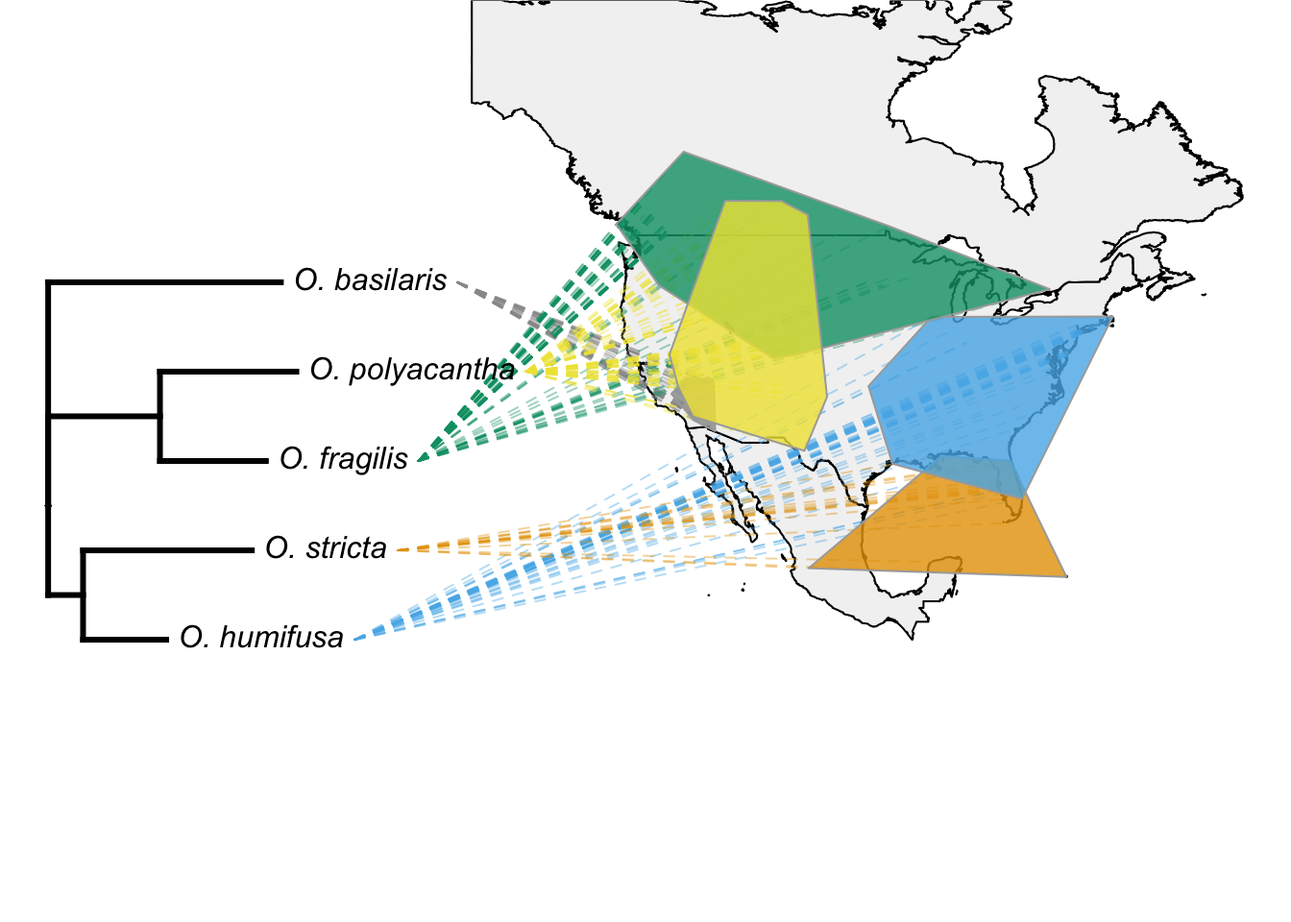
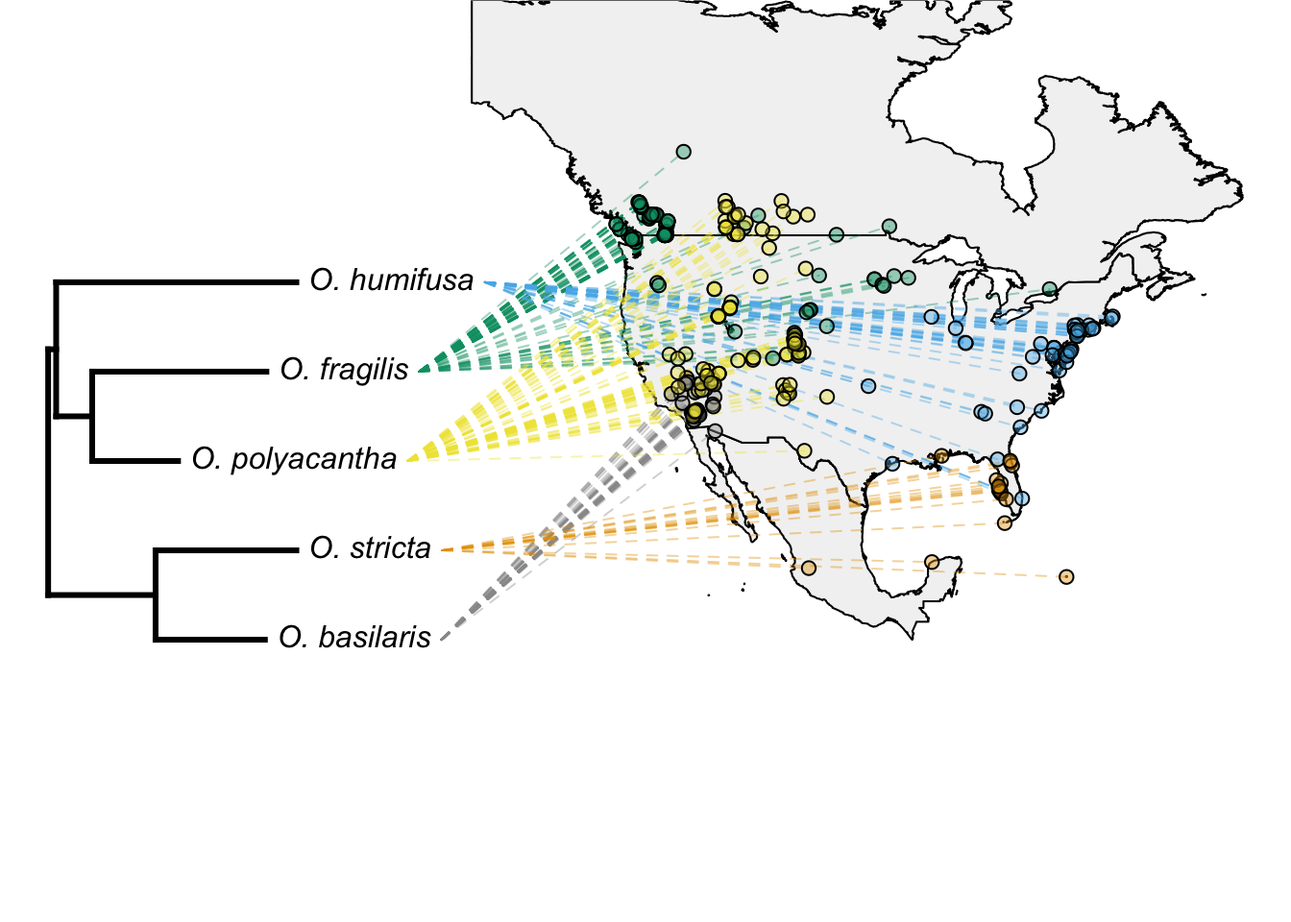
fixed some bugs in phylogeography R exercise

Changed region(s): [[0.0312, 0.1562, 0.875, 0.7188]]

diff --git a/docs/BIOL_324_Lab_10.html b/docs/BIOL_324_Lab_10.html
@@ -854,7 +854,7 @@ div.tocify {
 <div id="fruit-1" class="section level2">
 <h2>Fruit</h2>
 <p>Members of the Poaceae family form a caryopsis as their fruit type. A caryopsis is a dry, indehiscent fruit formed from a simple pistil that resembles an achene, except the seed coat is fused to the ovary wall. The caryopsis is often referred to as a grain, which as you likely know makes up a huge proportion of the food eaten by humans. Keep in mind that not all seeds/fruit referred to as “grains” (aka “cereal grains”) belong to the Poaceae family.</p>
-<p>Here, you can see a swollen caryopsis forming between the lemma and pelea of wheat (<em>Triticum</em> sp.).</p>
+<p>Here, you can see a swollen caryopsis forming between the lemma and palea of wheat (<em>Triticum</em> sp.).</p>
 <p align="center">
 <img src="media/Poaceae26.jpeg" style="width:49.0%" /> <img src="media/Poaceae27.jpeg" style="width:49.0%" />
 </p>
@@ -907,94 +907,115 @@ div.tocify {
 <span id="cb1-3"><a href="#cb1-3"></a><span class="kw">install.packages</span>(<span class="st">&#39;viridis&#39;</span>)</span></code></pre></div>
 <p>Attach the packages:</p>
 <div class="sourceCode" id="cb2"><pre class="sourceCode r"><code class="sourceCode r"><span id="cb2-1"><a href="#cb2-1"></a><span class="co"># attach packages once they are installed </span></span>
-<span id="cb2-2"><a href="#cb2-2"></a><span class="kw">library</span>(here)</span>
-<span id="cb2-3"><a href="#cb2-3"></a><span class="kw">library</span>(mapdata)</span>
-<span id="cb2-4"><a href="#cb2-4"></a><span class="kw">library</span>(phytools)</span>
-<span id="cb2-5"><a href="#cb2-5"></a><span class="kw">library</span>(tidyverse)</span>
-<span id="cb2-6"><a href="#cb2-6"></a><span class="kw">library</span>(viridis)</span></code></pre></div>
+<span id="cb2-2"><a href="#cb2-2"></a><span class="kw">library</span>(mapdata)</span>
+<span id="cb2-3"><a href="#cb2-3"></a><span class="kw">library</span>(phytools)</span>
+<span id="cb2-4"><a href="#cb2-4"></a><span class="kw">library</span>(tidyverse)</span>
+<span id="cb2-5"><a href="#cb2-5"></a><span class="kw">library</span>(viridis)</span></code></pre></div>
 <p>Let’s import our species distribution data (from GBIF, Lab 7) and phylogenetic tree (Assignment 4). If you haven’t already, we recommend re-creating your GBIF dataset using the option <code>geometry =</code> within <code>occ()</code> (see revised Lab 7). Don’t forget to save your GBIF data as an .rds file using <code>saveRDS()</code>!</p>
-<p>When you’re ready to import your own <em>rbcL</em> and GBIF data for your iNaturalist species, we recommend using <code>file.choose()</code> inside of <code>readRDS()</code> (see Lab 8).</p>
+<p>When you’re ready to import your own <em>rbcL</em> and GBIF data for your iNaturalist species, we recommend using <code>readRDS(file = file.choose())</code> (see Lab 8).</p>
 <div class="sourceCode" id="cb3"><pre class="sourceCode r"><code class="sourceCode r"><span id="cb3-1"><a href="#cb3-1"></a><span class="co"># import Opuntia rbcL tree from last tutorial</span></span>
 <span id="cb3-2"><a href="#cb3-2"></a>rbcL_tree &lt;-<span class="st"> </span><span class="kw">readRDS</span>(<span class="dt">file =</span> <span class="st">&#39;rbcL_tree.rds&#39;</span>)</span>
 <span id="cb3-3"><a href="#cb3-3"></a></span>
-<span id="cb3-4"><a href="#cb3-4"></a><span class="co"># import filtered GBIF data from last tutorial</span></span>
-<span id="cb3-5"><a href="#cb3-5"></a>opuntia_fil &lt;-<span class="st"> </span><span class="kw">readRDS</span>(<span class="dt">file =</span> <span class="st">&#39;filtered_gbif_dataset.rds&#39;</span>) </span></code></pre></div>
+<span id="cb3-4"><a href="#cb3-4"></a><span class="co"># adds a root to our tree, make sure you do this or your trees won&#39;t display properly!</span></span>
+<span id="cb3-5"><a href="#cb3-5"></a>rbcL_tree &lt;-<span class="st"> </span><span class="kw">midpoint.root</span>(rbcL_tree)</span>
+<span id="cb3-6"><a href="#cb3-6"></a></span>
+<span id="cb3-7"><a href="#cb3-7"></a><span class="co"># import filtered GBIF data from last tutorial</span></span>
+<span id="cb3-8"><a href="#cb3-8"></a>opuntia_fil &lt;-<span class="st"> </span><span class="kw">readRDS</span>(<span class="dt">file =</span> <span class="st">&#39;filtered_gbif_dataset.rds&#39;</span>) </span></code></pre></div>
+<p>Do some quick data checks to make sure your data loaded correctly:</p>
+<div class="sourceCode" id="cb4"><pre class="sourceCode r"><code class="sourceCode r"><span id="cb4-1"><a href="#cb4-1"></a><span class="co"># check that your map data looks ok...</span></span>
+<span id="cb4-2"><a href="#cb4-2"></a><span class="kw">head</span>(opuntia_fil)</span></code></pre></div>
+<pre><code>## # A tibble: 6 x 5
+##   name                longitude latitude basisOfRecord   scientificName         
+##   &lt;chr&gt;                   &lt;dbl&gt;    &lt;dbl&gt; &lt;chr&gt;           &lt;chr&gt;                  
+## 1 Opuntia basilaris …     -117.     36.9 HUMAN_OBSERVAT… Opuntia basilaris Enge…
+## 2 Opuntia basilaris …     -116.     33.7 HUMAN_OBSERVAT… Opuntia basilaris Enge…
+## 3 Opuntia basilaris …     -115.     36.4 HUMAN_OBSERVAT… Opuntia basilaris Enge…
+## 4 Opuntia basilaris …     -115.     36.4 HUMAN_OBSERVAT… Opuntia basilaris Enge…
+## 5 Opuntia basilaris …     -116.     33.9 HUMAN_OBSERVAT… Opuntia basilaris Enge…
+## 6 Opuntia basilaris …     -114.     36.6 HUMAN_OBSERVAT… Opuntia basilaris Enge…</code></pre>
+<div class="sourceCode" id="cb6"><pre class="sourceCode r"><code class="sourceCode r"><span id="cb6-1"><a href="#cb6-1"></a><span class="co"># double-check how they are named in GBIF dataset...</span></span>
+<span id="cb6-2"><a href="#cb6-2"></a><span class="kw">unique</span>(opuntia_fil<span class="op">$</span>name)</span></code></pre></div>
+<pre><code>## [1] &quot;Opuntia basilaris Engelm. &amp; J.M.Bigelow&quot;
+## [2] &quot;Opuntia fragilis (Nutt.) Haw.&quot;          
+## [3] &quot;Opuntia humifusa Raf.&quot;                  
+## [4] &quot;Opuntia polyacantha Haw.&quot;               
+## [5] &quot;Opuntia stricta (Haw.) Haw.&quot;</code></pre>
 <p>Then, we’ll simplify the species names in the GBIF dataset (this is required to use <code>phytools</code>). We can change the names of variables using the <code>mutate()</code> function:</p>
-<div class="sourceCode" id="cb4"><pre class="sourceCode r"><code class="sourceCode r"><span id="cb4-1"><a href="#cb4-1"></a>opuntia_fil &lt;-</span>
-<span id="cb4-2"><a href="#cb4-2"></a><span class="st"> </span>opuntia_fil <span class="op">%&gt;%</span><span class="st"> </span></span>
-<span id="cb4-3"><a href="#cb4-3"></a><span class="st"> </span><span class="kw">mutate</span>(<span class="dt">short_names =</span> <span class="kw">case_when</span>(</span>
-<span id="cb4-4"><a href="#cb4-4"></a>   name <span class="op">==</span><span class="st"> &quot;Opuntia basilaris Engelm. &amp; J.M.Bigelow&quot;</span> <span class="op">~</span><span class="st"> &quot;O._basilaris&quot;</span>,</span>
-<span id="cb4-5"><a href="#cb4-5"></a>   name <span class="op">==</span><span class="st"> &quot;Opuntia fragilis (Nutt.) Haw.&quot;</span> <span class="op">~</span><span class="st"> &quot;O._fragilis&quot;</span>,</span>
-<span id="cb4-6"><a href="#cb4-6"></a>   name <span class="op">==</span><span class="st"> &quot;Opuntia humifusa Raf.&quot;</span> <span class="op">~</span><span class="st"> &quot;O._humifusa&quot;</span>,</span>
-<span id="cb4-7"><a href="#cb4-7"></a>   name <span class="op">==</span><span class="st"> &quot;Opuntia stricta (Haw.) Haw.&quot;</span> <span class="op">~</span><span class="st"> &quot;O._stricta&quot;</span>,</span>
-<span id="cb4-8"><a href="#cb4-8"></a>   name <span class="op">==</span><span class="st"> &quot;Opuntia polyacantha Haw.&quot;</span> <span class="op">~</span><span class="st"> &quot;O._polyacantha&quot;</span></span>
-<span id="cb4-9"><a href="#cb4-9"></a> ))</span></code></pre></div>
+<div class="sourceCode" id="cb8"><pre class="sourceCode r"><code class="sourceCode r"><span id="cb8-1"><a href="#cb8-1"></a>opuntia_fil &lt;-</span>
+<span id="cb8-2"><a href="#cb8-2"></a><span class="st"> </span>opuntia_fil <span class="op">%&gt;%</span><span class="st"> </span></span>
+<span id="cb8-3"><a href="#cb8-3"></a><span class="st"> </span><span class="kw">mutate</span>(<span class="dt">short_names =</span> <span class="kw">case_when</span>(</span>
+<span id="cb8-4"><a href="#cb8-4"></a>   name <span class="op">==</span><span class="st"> &quot;Opuntia basilaris Engelm. &amp; J.M.Bigelow&quot;</span> <span class="op">~</span><span class="st"> &quot;O._basilaris&quot;</span>,</span>
+<span id="cb8-5"><a href="#cb8-5"></a>   name <span class="op">==</span><span class="st"> &quot;Opuntia fragilis (Nutt.) Haw.&quot;</span> <span class="op">~</span><span class="st"> &quot;O._fragilis&quot;</span>,</span>
+<span id="cb8-6"><a href="#cb8-6"></a>   name <span class="op">==</span><span class="st"> &quot;Opuntia humifusa Raf.&quot;</span> <span class="op">~</span><span class="st"> &quot;O._humifusa&quot;</span>,</span>
+<span id="cb8-7"><a href="#cb8-7"></a>   name <span class="op">==</span><span class="st"> &quot;Opuntia stricta (Haw.) Haw.&quot;</span> <span class="op">~</span><span class="st"> &quot;O._stricta&quot;</span>,</span>
+<span id="cb8-8"><a href="#cb8-8"></a>   name <span class="op">==</span><span class="st"> &quot;Opuntia polyacantha Haw.&quot;</span> <span class="op">~</span><span class="st"> &quot;O._polyacantha&quot;</span></span>
+<span id="cb8-9"><a href="#cb8-9"></a> ))</span></code></pre></div>
 <p>Some more data organizing is needed.. we’ll reverse the order of the latitude and longitude columns in our GBIF dataset, and convert the <code>tibble</code> into a <code>matrix</code> (for <code>phytools</code>):</p>
-<div class="sourceCode" id="cb5"><pre class="sourceCode r"><code class="sourceCode r"><span id="cb5-1"><a href="#cb5-1"></a>latlong &lt;-<span class="st"> </span></span>
-<span id="cb5-2"><a href="#cb5-2"></a><span class="st">  </span>opuntia_fil <span class="op">%&gt;%</span><span class="st"> </span></span>
-<span id="cb5-3"><a href="#cb5-3"></a><span class="st">  </span><span class="kw">select</span>(<span class="kw">c</span>(<span class="dv">3</span>,<span class="dv">2</span>)) <span class="op">%&gt;%</span><span class="st"> </span><span class="co"># reverse long-lat to lat-long</span></span>
-<span id="cb5-4"><a href="#cb5-4"></a><span class="st">  </span><span class="kw">as.matrix</span>()</span></code></pre></div>
+<div class="sourceCode" id="cb9"><pre class="sourceCode r"><code class="sourceCode r"><span id="cb9-1"><a href="#cb9-1"></a>latlong &lt;-<span class="st"> </span></span>
+<span id="cb9-2"><a href="#cb9-2"></a><span class="st">  </span>opuntia_fil <span class="op">%&gt;%</span><span class="st"> </span></span>
+<span id="cb9-3"><a href="#cb9-3"></a><span class="st">  </span><span class="kw">select</span>(<span class="kw">c</span>(<span class="dv">3</span>,<span class="dv">2</span>)) <span class="op">%&gt;%</span><span class="st"> </span><span class="co"># reverse long-lat to lat-long</span></span>
+<span id="cb9-4"><a href="#cb9-4"></a><span class="st">  </span><span class="kw">as.matrix</span>()</span></code></pre></div>
 <p>We’ll need to give each row (i.e. GBIF observation) a species name in order to overlay a phylogeny. Entries with missing information (<code>NA</code>s) also need to be removed:</p>
-<div class="sourceCode" id="cb6"><pre class="sourceCode r"><code class="sourceCode r"><span id="cb6-1"><a href="#cb6-1"></a><span class="co"># assign species names to rows</span></span>
-<span id="cb6-2"><a href="#cb6-2"></a><span class="kw">rownames</span>(latlong) &lt;-<span class="st"> </span>opuntia_fil<span class="op">$</span>short_names</span>
-<span id="cb6-3"><a href="#cb6-3"></a></span>
-<span id="cb6-4"><a href="#cb6-4"></a><span class="co"># removes rows with NAs</span></span>
-<span id="cb6-5"><a href="#cb6-5"></a>latlong &lt;-<span class="st"> </span><span class="kw">na.omit</span>(latlong)</span></code></pre></div>
+<div class="sourceCode" id="cb10"><pre class="sourceCode r"><code class="sourceCode r"><span id="cb10-1"><a href="#cb10-1"></a><span class="co"># assign species names to rows</span></span>
+<span id="cb10-2"><a href="#cb10-2"></a><span class="kw">rownames</span>(latlong) &lt;-<span class="st"> </span>opuntia_fil<span class="op">$</span>short_names</span>
+<span id="cb10-3"><a href="#cb10-3"></a></span>
+<span id="cb10-4"><a href="#cb10-4"></a><span class="co"># removes rows with NAs</span></span>
+<span id="cb10-5"><a href="#cb10-5"></a>latlong &lt;-<span class="st"> </span><span class="kw">na.omit</span>(latlong)</span></code></pre></div>
 <p>The species names need to match the exact spelling and format as in the phylogeny:</p>
-<div class="sourceCode" id="cb7"><pre class="sourceCode r"><code class="sourceCode r"><span id="cb7-1"><a href="#cb7-1"></a>rbcL_tree<span class="op">$</span>tip.label &lt;-<span class="st"> </span></span>
-<span id="cb7-2"><a href="#cb7-2"></a><span class="st">  </span><span class="kw">c</span>(<span class="st">&quot;O._basilaris&quot;</span>, <span class="st">&quot;O._stricta&quot;</span>, <span class="st">&quot;O._humifusa&quot;</span>, <span class="st">&quot;O._fragilis&quot;</span>, <span class="st">&quot;O._polyacantha&quot;</span>)</span></code></pre></div>
+<div class="sourceCode" id="cb11"><pre class="sourceCode r"><code class="sourceCode r"><span id="cb11-1"><a href="#cb11-1"></a>rbcL_tree<span class="op">$</span>tip.label &lt;-<span class="st"> </span></span>
+<span id="cb11-2"><a href="#cb11-2"></a><span class="st">  </span><span class="kw">c</span>(<span class="st">&quot;O._basilaris&quot;</span>, <span class="st">&quot;O._stricta&quot;</span>, <span class="st">&quot;O._humifusa&quot;</span>, <span class="st">&quot;O._fragilis&quot;</span>, <span class="st">&quot;O._polyacantha&quot;</span>)</span></code></pre></div>
 <p>And each species needs a unique colour:</p>
-<div class="sourceCode" id="cb8"><pre class="sourceCode r"><code class="sourceCode r"><span id="cb8-1"><a href="#cb8-1"></a>colours &lt;-<span class="st"> </span></span>
-<span id="cb8-2"><a href="#cb8-2"></a><span class="st">  </span><span class="kw">setNames</span>(<span class="kw">c</span>(<span class="st">&#39;#999999&#39;</span>, <span class="st">&#39;#E69F00&#39;</span>, <span class="st">&#39;#56B4E9&#39;</span>, <span class="st">&#39;#009E73&#39;</span>, <span class="st">&#39;#F0E442&#39;</span>),</span>
-<span id="cb8-3"><a href="#cb8-3"></a>           rbcL_tree<span class="op">$</span>tip.label)</span></code></pre></div>
-<div class="sourceCode" id="cb9"><pre class="sourceCode r"><code class="sourceCode r"><span id="cb9-1"><a href="#cb9-1"></a>obj &lt;-<span class="st"> </span></span>
-<span id="cb9-2"><a href="#cb9-2"></a><span class="st">  </span><span class="kw">phylo.to.map</span>(</span>
-<span id="cb9-3"><a href="#cb9-3"></a>    rbcL_tree, </span>
-<span id="cb9-4"><a href="#cb9-4"></a>    latlong, </span>
-<span id="cb9-5"><a href="#cb9-5"></a>    <span class="dt">rotate =</span> <span class="ot">FALSE</span>,</span>
-<span id="cb9-6"><a href="#cb9-6"></a>    <span class="dt">regions =</span> <span class="kw">c</span>(<span class="st">&quot;Canada&quot;</span>, <span class="st">&quot;USA&quot;</span>, <span class="st">&quot;Mexico&quot;</span>),</span>
-<span id="cb9-7"><a href="#cb9-7"></a>    <span class="dt">database =</span> <span class="st">&quot;worldHires&quot;</span>,</span>
-<span id="cb9-8"><a href="#cb9-8"></a>    <span class="dt">xlim =</span> <span class="kw">c</span>(<span class="op">-</span><span class="dv">135</span>, <span class="dv">-55</span> ),  </span>
-<span id="cb9-9"><a href="#cb9-9"></a>    <span class="dt">ylim =</span> <span class="kw">c</span>(<span class="dv">10</span>, <span class="dv">45</span>),</span>
-<span id="cb9-10"><a href="#cb9-10"></a>    <span class="dt">asp =</span> <span class="dv">4</span>,</span>
-<span id="cb9-11"><a href="#cb9-11"></a>    <span class="dt">lwd =</span> <span class="dv">1</span>,</span>
-<span id="cb9-12"><a href="#cb9-12"></a>    <span class="dt">plot =</span> <span class="ot">FALSE</span>)</span>
-<span id="cb9-13"><a href="#cb9-13"></a></span>
-<span id="cb9-14"><a href="#cb9-14"></a><span class="kw">plot</span>(</span>
-<span id="cb9-15"><a href="#cb9-15"></a>  obj, </span>
-<span id="cb9-16"><a href="#cb9-16"></a>  <span class="dt">direction =</span> <span class="st">&quot;rightwards&quot;</span>, </span>
-<span id="cb9-17"><a href="#cb9-17"></a>  <span class="dt">colors =</span> <span class="kw">sapply</span>(colours, make.transparent, <span class="fl">0.4</span>),</span>
-<span id="cb9-18"><a href="#cb9-18"></a>  <span class="dt">pts =</span> <span class="ot">TRUE</span>,</span>
-<span id="cb9-19"><a href="#cb9-19"></a>  <span class="dt">cex.points =</span> <span class="kw">c</span>(<span class="dv">0</span>,<span class="dv">1</span>),</span>
-<span id="cb9-20"><a href="#cb9-20"></a>  <span class="dt">lwd =</span> <span class="kw">c</span>(<span class="dv">3</span>,<span class="dv">1</span>),</span>
-<span id="cb9-21"><a href="#cb9-21"></a>  <span class="dt">asp =</span> <span class="fl">1.3</span>,</span>
-<span id="cb9-22"><a href="#cb9-22"></a>  <span class="dt">ftype =</span><span class="st">&quot;i&quot;</span>)</span></code></pre></div>
-<p><img src="BIOL_324_Lab_10_files/figure-html/unnamed-chunk-9-1.png" width="672" /></p>
-<p>Optional: If you’d like to replace occurrence points with a polygon that summarizes a species’ distribution, you can try:</p>
-<div class="sourceCode" id="cb10"><pre class="sourceCode r"><code class="sourceCode r"><span id="cb10-1"><a href="#cb10-1"></a><span class="co"># To plot polygons, re-run plot() with pts = FALSE and cex.point = c(0,0) along with </span></span>
-<span id="cb10-2"><a href="#cb10-2"></a>{<span class="kw">plot</span>(</span>
-<span id="cb10-3"><a href="#cb10-3"></a>  obj, </span>
-<span id="cb10-4"><a href="#cb10-4"></a>  <span class="dt">direction =</span> <span class="st">&quot;rightwards&quot;</span>, </span>
-<span id="cb10-5"><a href="#cb10-5"></a>  <span class="dt">colors =</span> <span class="kw">sapply</span>(colours, make.transparent, <span class="fl">0.4</span>),</span>
-<span id="cb10-6"><a href="#cb10-6"></a>  <span class="dt">pts =</span> <span class="ot">FALSE</span>,</span>
-<span id="cb10-7"><a href="#cb10-7"></a>  <span class="dt">cex.points =</span> <span class="kw">c</span>(<span class="dv">0</span>,<span class="dv">0</span>),</span>
-<span id="cb10-8"><a href="#cb10-8"></a>  <span class="dt">lwd =</span> <span class="kw">c</span>(<span class="dv">3</span>,<span class="dv">1</span>),</span>
-<span id="cb10-9"><a href="#cb10-9"></a>  <span class="dt">asp =</span> <span class="fl">1.3</span>,</span>
-<span id="cb10-10"><a href="#cb10-10"></a>  <span class="dt">ftype =</span><span class="st">&quot;i&quot;</span>)</span>
-<span id="cb10-11"><a href="#cb10-11"></a></span>
-<span id="cb10-12"><a href="#cb10-12"></a><span class="co"># compute polygon boundaries from lat-long data</span></span>
-<span id="cb10-13"><a href="#cb10-13"></a><span class="cf">for</span>(i <span class="cf">in</span> <span class="dv">1</span><span class="op">:</span><span class="kw">Ntip</span>(rbcL_tree)){</span>
-<span id="cb10-14"><a href="#cb10-14"></a>  spr&lt;-latlong[<span class="kw">which</span>(<span class="kw">rownames</span>(latlong)<span class="op">==</span>rbcL_tree<span class="op">$</span>tip.label[i]),]</span>
-<span id="cb10-15"><a href="#cb10-15"></a>  mcp&lt;-<span class="cf">if</span>(i<span class="op">==</span><span class="dv">1</span>) spr[<span class="kw">chull</span>(spr),] <span class="cf">else</span> <span class="kw">rbind</span>(mcp,spr[<span class="kw">chull</span>(spr),])</span>
-<span id="cb10-16"><a href="#cb10-16"></a>}</span>
-<span id="cb10-17"><a href="#cb10-17"></a></span>
-<span id="cb10-18"><a href="#cb10-18"></a><span class="co"># plot polygons </span></span>
-<span id="cb10-19"><a href="#cb10-19"></a><span class="cf">for</span>(i <span class="cf">in</span> <span class="dv">1</span><span class="op">:</span><span class="kw">Ntip</span>(rbcL_tree)){</span>
-<span id="cb10-20"><a href="#cb10-20"></a>  ii&lt;-<span class="kw">which</span>(<span class="kw">rownames</span>(mcp)<span class="op">==</span>rbcL_tree<span class="op">$</span>tip.label[i])</span>
-<span id="cb10-21"><a href="#cb10-21"></a>  <span class="kw">polygon</span>(mcp[ii,<span class="dv">2</span><span class="op">:</span><span class="dv">1</span>],<span class="dt">col=</span><span class="kw">make.transparent</span>(colours[rbcL_tree<span class="op">$</span>tip.label[i]],<span class="fl">0.8</span>),</span>
-<span id="cb10-22"><a href="#cb10-22"></a>          <span class="dt">border=</span><span class="st">&quot;darkgrey&quot;</span>)</span>
-<span id="cb10-23"><a href="#cb10-23"></a>}}</span></code></pre></div>
+<div class="sourceCode" id="cb12"><pre class="sourceCode r"><code class="sourceCode r"><span id="cb12-1"><a href="#cb12-1"></a>colours &lt;-<span class="st"> </span></span>
+<span id="cb12-2"><a href="#cb12-2"></a><span class="st">  </span><span class="kw">setNames</span>(<span class="kw">c</span>(<span class="st">&#39;#999999&#39;</span>, <span class="st">&#39;#E69F00&#39;</span>, <span class="st">&#39;#56B4E9&#39;</span>, <span class="st">&#39;#009E73&#39;</span>, <span class="st">&#39;#F0E442&#39;</span>),</span>
+<span id="cb12-3"><a href="#cb12-3"></a>           rbcL_tree<span class="op">$</span>tip.label)</span></code></pre></div>
+<div class="sourceCode" id="cb13"><pre class="sourceCode r"><code class="sourceCode r"><span id="cb13-1"><a href="#cb13-1"></a>obj &lt;-<span class="st"> </span></span>
+<span id="cb13-2"><a href="#cb13-2"></a><span class="st">  </span><span class="kw">phylo.to.map</span>(</span>
+<span id="cb13-3"><a href="#cb13-3"></a>    rbcL_tree, </span>
+<span id="cb13-4"><a href="#cb13-4"></a>    latlong, </span>
+<span id="cb13-5"><a href="#cb13-5"></a>    <span class="dt">rotate =</span> <span class="ot">FALSE</span>,</span>
+<span id="cb13-6"><a href="#cb13-6"></a>    <span class="dt">regions =</span> <span class="kw">c</span>(<span class="st">&quot;Canada&quot;</span>, <span class="st">&quot;USA&quot;</span>, <span class="st">&quot;Mexico&quot;</span>),</span>
+<span id="cb13-7"><a href="#cb13-7"></a>    <span class="dt">database =</span> <span class="st">&quot;worldHires&quot;</span>,</span>
+<span id="cb13-8"><a href="#cb13-8"></a>    <span class="dt">xlim =</span> <span class="kw">c</span>(<span class="op">-</span><span class="dv">135</span>, <span class="dv">-55</span> ),  </span>
+<span id="cb13-9"><a href="#cb13-9"></a>    <span class="dt">ylim =</span> <span class="kw">c</span>(<span class="dv">10</span>, <span class="dv">45</span>),</span>
+<span id="cb13-10"><a href="#cb13-10"></a>    <span class="dt">asp =</span> <span class="dv">4</span>,</span>
+<span id="cb13-11"><a href="#cb13-11"></a>    <span class="dt">lwd =</span> <span class="dv">1</span>,</span>
+<span id="cb13-12"><a href="#cb13-12"></a>    <span class="dt">plot =</span> <span class="ot">FALSE</span>)</span>
+<span id="cb13-13"><a href="#cb13-13"></a></span>
+<span id="cb13-14"><a href="#cb13-14"></a><span class="kw">plot</span>(</span>
+<span id="cb13-15"><a href="#cb13-15"></a>  obj, </span>
+<span id="cb13-16"><a href="#cb13-16"></a>  <span class="dt">direction =</span> <span class="st">&quot;rightwards&quot;</span>, </span>
+<span id="cb13-17"><a href="#cb13-17"></a>  <span class="dt">colors =</span> <span class="kw">sapply</span>(colours, make.transparent, <span class="fl">0.4</span>),</span>
+<span id="cb13-18"><a href="#cb13-18"></a>  <span class="dt">pts =</span> <span class="ot">TRUE</span>,</span>
+<span id="cb13-19"><a href="#cb13-19"></a>  <span class="dt">cex.points =</span> <span class="kw">c</span>(<span class="dv">0</span>,<span class="dv">1</span>),</span>
+<span id="cb13-20"><a href="#cb13-20"></a>  <span class="dt">lwd =</span> <span class="kw">c</span>(<span class="dv">3</span>,<span class="dv">1</span>),</span>
+<span id="cb13-21"><a href="#cb13-21"></a>  <span class="dt">asp =</span> <span class="fl">1.3</span>,</span>
+<span id="cb13-22"><a href="#cb13-22"></a>  <span class="dt">ftype =</span><span class="st">&quot;i&quot;</span>)</span></code></pre></div>
 <p><img src="BIOL_324_Lab_10_files/figure-html/unnamed-chunk-10-1.png" width="672" /></p>
+<p>Optional: If you’d like to replace occurrence points with a polygon that summarizes a species’ distribution, you can try:</p>
+<div class="sourceCode" id="cb14"><pre class="sourceCode r"><code class="sourceCode r"><span id="cb14-1"><a href="#cb14-1"></a><span class="co"># To plot polygons, re-run plot() with pts = FALSE and cex.point = c(0,0) along with </span></span>
+<span id="cb14-2"><a href="#cb14-2"></a>{<span class="kw">plot</span>(</span>
+<span id="cb14-3"><a href="#cb14-3"></a>  obj, </span>
+<span id="cb14-4"><a href="#cb14-4"></a>  <span class="dt">direction =</span> <span class="st">&quot;rightwards&quot;</span>, </span>
+<span id="cb14-5"><a href="#cb14-5"></a>  <span class="dt">colors =</span> <span class="kw">sapply</span>(colours, make.transparent, <span class="fl">0.4</span>),</span>
+<span id="cb14-6"><a href="#cb14-6"></a>  <span class="dt">pts =</span> <span class="ot">FALSE</span>,</span>
+<span id="cb14-7"><a href="#cb14-7"></a>  <span class="dt">cex.points =</span> <span class="kw">c</span>(<span class="dv">0</span>,<span class="dv">0</span>),</span>
+<span id="cb14-8"><a href="#cb14-8"></a>  <span class="dt">lwd =</span> <span class="kw">c</span>(<span class="dv">3</span>,<span class="dv">1</span>),</span>
+<span id="cb14-9"><a href="#cb14-9"></a>  <span class="dt">asp =</span> <span class="fl">1.3</span>,</span>
+<span id="cb14-10"><a href="#cb14-10"></a>  <span class="dt">ftype =</span><span class="st">&quot;i&quot;</span>)</span>
+<span id="cb14-11"><a href="#cb14-11"></a></span>
+<span id="cb14-12"><a href="#cb14-12"></a><span class="co"># compute polygon boundaries from lat-long data</span></span>
+<span id="cb14-13"><a href="#cb14-13"></a><span class="cf">for</span>(i <span class="cf">in</span> <span class="dv">1</span><span class="op">:</span><span class="kw">Ntip</span>(rbcL_tree)){</span>
+<span id="cb14-14"><a href="#cb14-14"></a>  spr&lt;-latlong[<span class="kw">which</span>(<span class="kw">rownames</span>(latlong)<span class="op">==</span>rbcL_tree<span class="op">$</span>tip.label[i]),]</span>
+<span id="cb14-15"><a href="#cb14-15"></a>  mcp&lt;-<span class="cf">if</span>(i<span class="op">==</span><span class="dv">1</span>) spr[<span class="kw">chull</span>(spr),] <span class="cf">else</span> <span class="kw">rbind</span>(mcp,spr[<span class="kw">chull</span>(spr),])</span>
+<span id="cb14-16"><a href="#cb14-16"></a>}</span>
+<span id="cb14-17"><a href="#cb14-17"></a></span>
+<span id="cb14-18"><a href="#cb14-18"></a><span class="co"># plot polygons </span></span>
+<span id="cb14-19"><a href="#cb14-19"></a><span class="cf">for</span>(i <span class="cf">in</span> <span class="dv">1</span><span class="op">:</span><span class="kw">Ntip</span>(rbcL_tree)){</span>
+<span id="cb14-20"><a href="#cb14-20"></a>  ii&lt;-<span class="kw">which</span>(<span class="kw">rownames</span>(mcp)<span class="op">==</span>rbcL_tree<span class="op">$</span>tip.label[i])</span>
+<span id="cb14-21"><a href="#cb14-21"></a>  <span class="kw">polygon</span>(mcp[ii,<span class="dv">2</span><span class="op">:</span><span class="dv">1</span>],<span class="dt">col=</span><span class="kw">make.transparent</span>(colours[rbcL_tree<span class="op">$</span>tip.label[i]],<span class="fl">0.8</span>),</span>
+<span id="cb14-22"><a href="#cb14-22"></a>          <span class="dt">border=</span><span class="st">&quot;darkgrey&quot;</span>)</span>
+<span id="cb14-23"><a href="#cb14-23"></a>}}</span></code></pre></div>
+<p><img src="BIOL_324_Lab_10_files/figure-html/unnamed-chunk-11-1.png" width="672" /></p>
 <hr />
 </div>
 <div id="knowledge-check-10.4" class="section level2">
@@ -1004,7 +1025,7 @@ div.tocify {
 <li>Tips for your maps
 <ul>
 <li>Make sure that each species is abbreviated and spelled correctly in your phylogeny, and that each species shows up on your map and is represented by a different colour.</li>
-<li>You can include either the “dot” version or the “polygon” version (or both)! Choose the one that you feel makes it more intuitive to interpret the ranges of your 5 species.</li>
+<li>You can include either the “dot” version or the “polygon” version (or both)! Choose the one that you feel makes it more intuitive to interpret the ranges of your 5 species. For those of you with several widespread species, the polygon version of the map may not be very readable! In that case, stick with the dots version. If you still have too much going on in the dots version (too many dots/lines obscuring the map), remake your maps and set <code>limit = 500</code> (or lower) to reduce the clutter.</li>
 <li>Focus your interpretations on the degree of range overlap between species, and whether this correlates with growth form, life history, or habitat requirements.</li>
 </ul></li>
 </ul>
